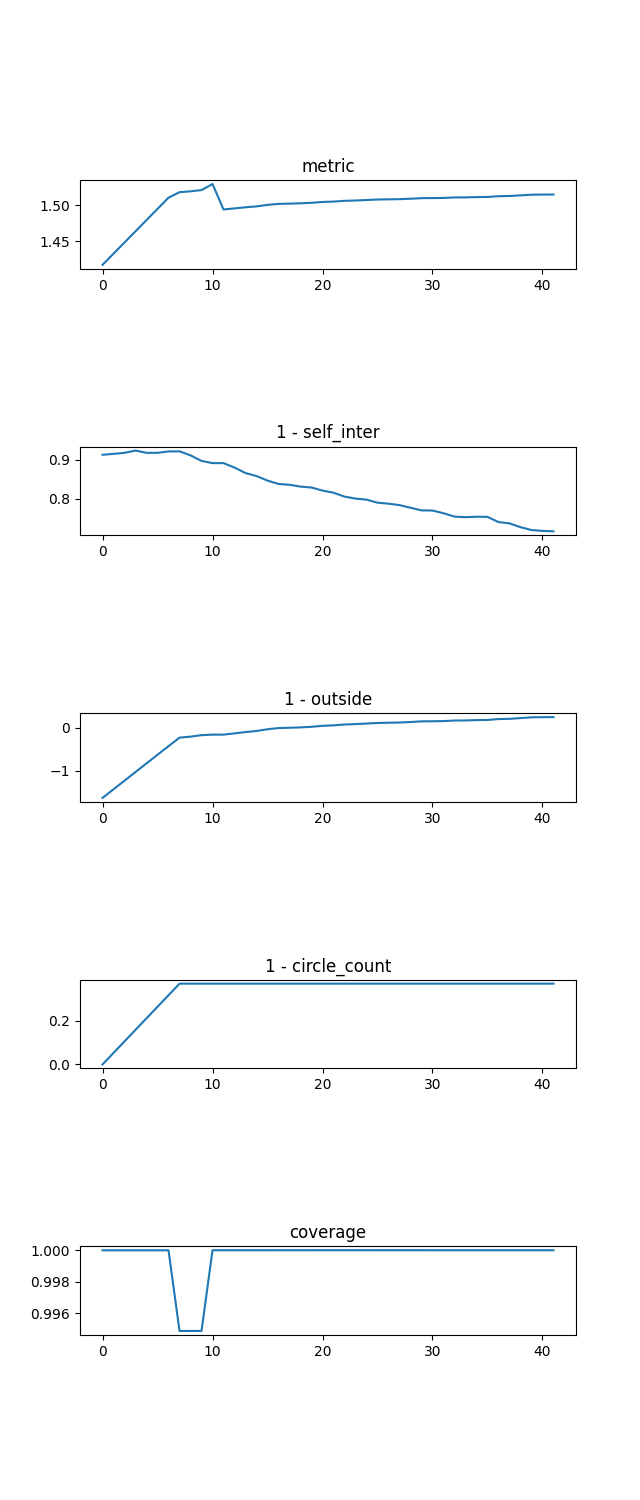
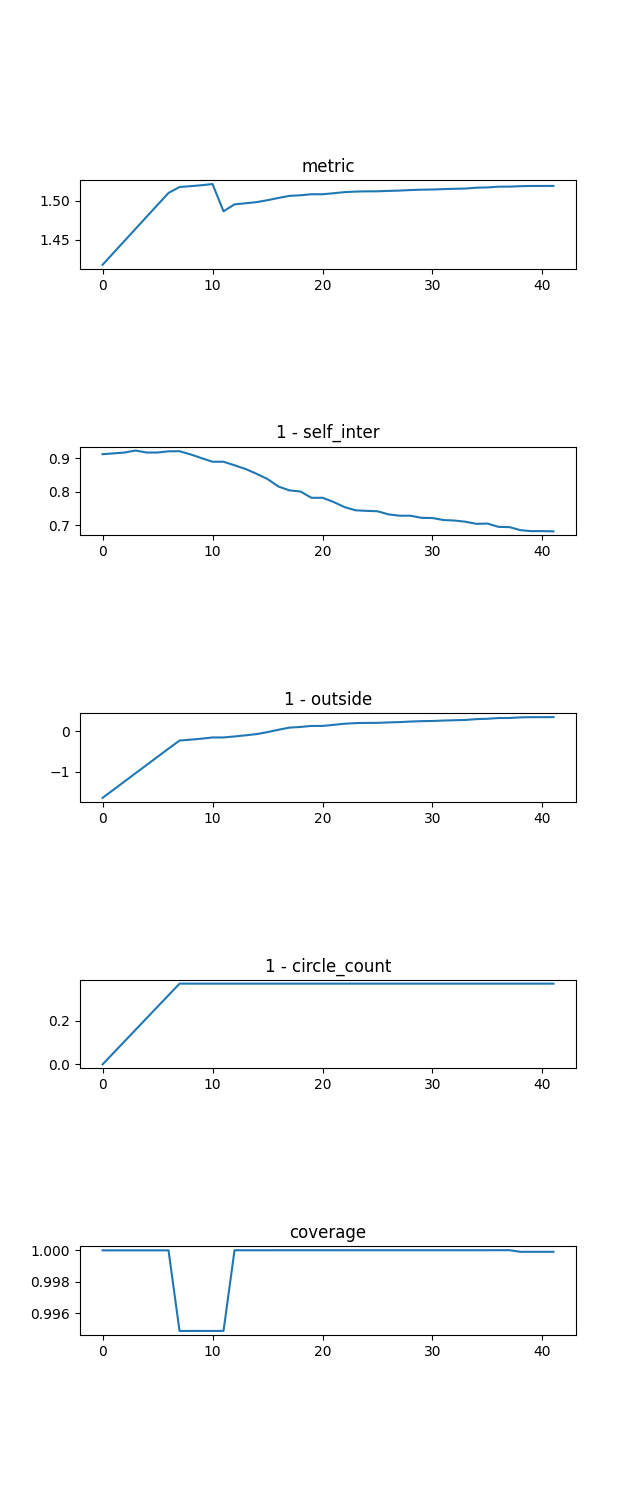
added comments, done performance test

diff --git a/Examples/FlexibleBnB/exp_bnb.py b/Examples/FlexibleBnB/exp_bnb.py
@@ -5,7 +5,7 @@ from matplotlib import pyplot as plt
 from Algorithms.BranchesAndBounds.FlexibleBnBAlgorithm import FlexibleBnBAlgorithm
 from Algorithms.BranchesAndBounds.Loggers.BnBAnimationLogger import BnBAnimationLogger
 from Algorithms.BranchesAndBounds.Loggers.BnBMetricLogger import BnBMetricLogger
-from Algorithms.BranchesAndBounds.ParamsClasses.ExpBnBParams import ExpBnBParams
+from Algorithms.BranchesAndBounds.ParamsClasses.StretchedBnBParams import StretchedBnBParams
 from Algorithms.Hexagonal.HexagonalAlgorithm import HexagonalAlgorithm
 from Algorithms.Hexagonal.hexagonal_coverings import hexagonal_np
 from Examples.polygons import polygons_dict
@@ -47,13 +47,13 @@ def main(poly_name='P1', show_plt=False):
     # Запустим алгоритм с приоритетом на удаление кругов.
     bnb_alg.set_params(
         max_iterations=10,
-        params=ExpBnBParams(
+        params=StretchedBnBParams(
             P,
             len(hex_ans),
             CIRCLE_COUNT_W=0.1,
-            animation_logger=BnBAnimationLogger(),  # TODO: отключить автоматический ресет логгеров
-            metric_logger=BnBMetricLogger(),
-            MOVE_SCHEDULE=(lambda x: 0.985 * x)),  # TODO: 0.985
+            animation_logger=None,  # BnBAnimationLogger(),
+            metric_logger=None,  # BnBMetricLogger(),
+            MOVE_SCHEDULE=(lambda x: 0.985 * x)),
         fixed=list(inners)
     )
     bnb_alg.run_algorithm()
@@ -99,4 +99,4 @@ def main(poly_name='P1', show_plt=False):
 if __name__ == '__main__':
     for poly_name in polygons_dict.keys():
         main(poly_name)
-    # main('P1', show_plt=True)
+    #main('P1', show_plt=True)

diff --git a/Examples/FlexibleBnB/triple_bnb_combined2.py b/Examples/FlexibleBnB/triple_bnb_combined2.py
@@ -5,7 +5,7 @@ from matplotlib import pyplot as plt
 from Algorithms.BranchesAndBounds.FlexibleBnBAlgorithm import FlexibleBnBAlgorithm
 from Algorithms.BranchesAndBounds.Loggers.BnBAnimationLogger import BnBAnimationLogger
 from Algorithms.BranchesAndBounds.Loggers.BnBMetricLogger import BnBMetricLogger
-from Algorithms.BranchesAndBounds.ParamsClasses.TripleBnBParams import TripleBnBParams
+from Algorithms.BranchesAndBounds.ParamsClasses.SmarterBadCirclesBnBParams import SmarterBadCirclesBnBParams
 from Algorithms.Hexagonal.HexagonalAlgorithm import HexagonalAlgorithm
 from Algorithms.NBodies.GravityFunctions import smooth_gravity_on_region_with_sign
 from Algorithms.NBodies.RungeKuttaAlgorithm import RungeKuttaAlgorithm
@@ -42,7 +42,7 @@ def main(poly_name='P1', show_plt=False):
     bnb_alg = FlexibleBnBAlgorithm(P, hex_ans)
     bnb_alg.set_params(
         max_iterations=30,
-        params=TripleBnBParams(
+        params=SmarterBadCirclesBnBParams(
             P,
             len(hex_ans),
             animation_logger=None, #BnBAnimationLogger(),

diff --git a/Algorithms/BranchesAndBounds/ParamsClasses/StretchedBnBParams.py b/Algorithms/BranchesAndBounds/ParamsClasses/StretchedBnBParams.py
@@ -2,10 +2,14 @@ import numpy as np
 from shapely import unary_union
 
 from Algorithms.BranchesAndBounds.Branch import Branch
-from Algorithms.BranchesAndBounds.ParamsClasses.TripleBnBParams import TripleBnBParams
+from Algorithms.BranchesAndBounds.ParamsClasses.SmarterBadCirclesBnBParams import SmarterBadCirclesBnBParams
 
 
-class ExpBnBParams(TripleBnBParams):
+class StretchedBnBParams(SmarterBadCirclesBnBParams):
+    """
+    То же, что и SmarterBadCirclesBnBParams, но равномерно растягивает метрику
+    coverage из отрезка [0.96; 1] до [0; 1]
+    """
     def calculate_metric(self, branches: list[Branch]):
         """
         Считает метрику для всех ветвей из массива branches.

diff --git a/Algorithms/BranchesAndBounds/ParamsClasses/SmarterBadCirclesBnBParams.py b/Algorithms/BranchesAndBounds/ParamsClasses/SmarterBadCirclesBnBParams.py
@@ -6,7 +6,10 @@ from Algorithms.BranchesAndBounds.Loggers.BnBMetricLogger import BnBMetricLogger
 from Algorithms.BranchesAndBounds.ParamsClasses.FlexibleBnBParams import FlexibleBnBParams
 
 
-class TripleBnBParams(FlexibleBnBParams):
+class SmarterBadCirclesBnBParams(FlexibleBnBParams):
+    """
+    То же, что и FlexibleBnBParams, но здесь плохие круги - те, что имеют: 1) минимальное пересечение с многоугольником. 2) минимальную долю уникальной общей с многоугольником площади.
+    """
     def __init__(self,
                  P: Polygon,
                  init_circles: int,

diff --git a/Algorithms/BranchesAndBounds/FlexibleBnBAlgorithm.py b/Algorithms/BranchesAndBounds/FlexibleBnBAlgorithm.py
@@ -7,6 +7,11 @@ from Utils.Circle import Circle
 
 
 class FlexibleBnBAlgorithm:
+    """
+    Алгоритм для метода ветвей и границ. Поддерживает различные
+    варианты параметров работы метода, задаваемых объектом класса
+    FlexibleBnBParams или его наследников.
+    """
     def __init__(self,
                  P: Polygon,
                  circles: list[Circle]):
